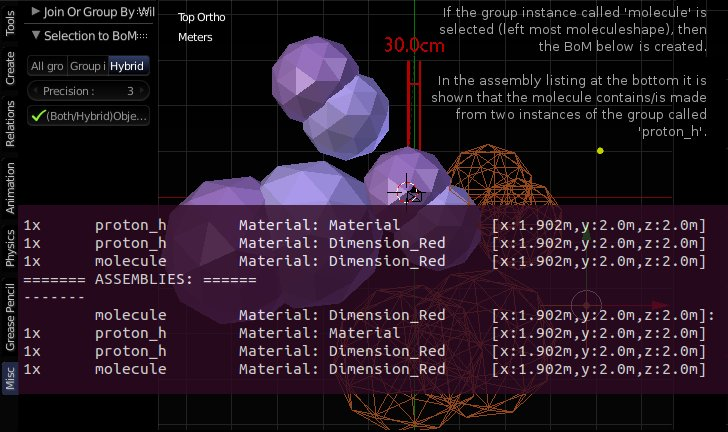
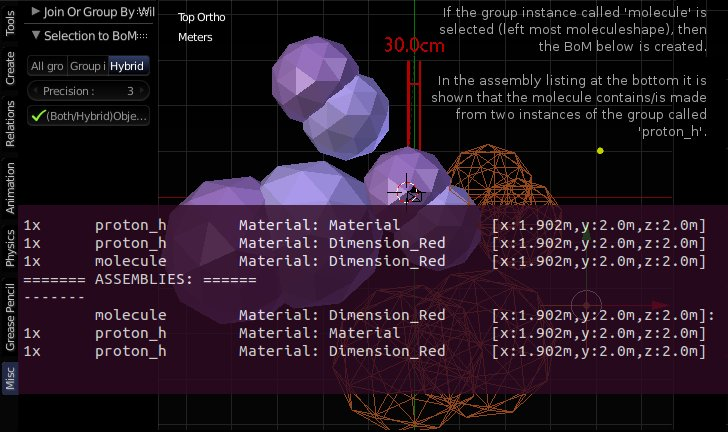
Align BoM formatting. Fix wrong assembly listings. Fix recursion.
Fix misalignments in generated BoM.
Fix assembly listing just outputting the global bom entry counts
instead of those per assembly.

Reduce global variables count.
Nicer debug output (printing recursion depth and which objects operator
operate on explicitely).

diff --git a/object_selection2bom.py b/object_selection2bom.py
@@ -113,6 +113,8 @@ def initaddon(context):
 #@return always returns True or False
 object_reference_count = {}
 def act(context):
+    global bom_entry_count_map
+    global assembly_bom_entry_count_map
     
     initaddon(context)
 
@@ -220,7 +222,7 @@ def act(context):
             print('creating bom entry not successful => aborting')
         #return False#selection_result
     else:
-        write2file(context, bom_entry_count_map)
+        write2file(context, bom_entry_count_map, assembly_bom_entry_count_map)
 
 
 
@@ -359,24 +361,20 @@ def is_longest_material_then_store_len(material_label='', material=None):
 
 
 #CREATE BOM ENTRY FROM OBJECT
-create_bom_entry_recursion_depth = 0
-def create_bom_entry_recursively(context, o_bjects, owning_group_instance_objects):
+def create_bom_entry_recursively(context, o_bjects, owning_group_instance_objects, recursion_depth=0):
     if debug:
-        print('Creating BoM entry recursively ...')
+        print(str(recursion_depth) + ' Creating BoM entry recursively ...')
         
-    global create_bom_entry_recursion_depth
-    create_bom_entry_recursion_depth = create_bom_entry_recursion_depth + 1
-    
-    if (create_bom_entry_recursion_depth > after_how_many_create_bom_entry_recursions_to_abort):
+    if (recursion_depth > after_how_many_create_bom_entry_recursions_to_abort):
         if debug:
             print('Failed creating bom entries in time. Recursion limit exceeded: '
-                    , create_bom_entry_recursion_depth)
+                    , recursion_depth)
         return {'CANCELLED'}
 
 
     
     if debug:
-        print('Encountered: ', o_bjects, ' type: ', type(o_bjects))
+        print(str(recursion_depth) + ' Encountered: ', o_bjects, ' type: ', type(o_bjects))
     
     
     
@@ -388,7 +386,7 @@ def create_bom_entry_recursively(context, o_bjects, owning_group_instance_object
         
         is_longest_object_label_then_store_len(o_bjects)
         if debug:
-            print('Encountered an object: ', o_bjects, ' blender-Type: ', o_bjects.type)
+            print(str(recursion_depth) + ' Encountered an object: ', o_bjects, ' blender-Type: ', o_bjects.type)
         
         
         #Is object type considered? (not considered are e.g. armatures.)
@@ -410,7 +408,7 @@ def create_bom_entry_recursively(context, o_bjects, owning_group_instance_object
                 # In all modes, these objects get an entry in the BoM.
                 if (not build_and_store_bom_entry(context, o_bjects, owning_group_instance_objects)):
                     if debug:
-                        print('Failed to write bom entry to file. ', o_bjects, create_bom_entry_recursion_depth)
+                        print('Failed to write bom entry to file. ', o_bjects, recursion_depth)
                     return {'CANCELLED'}
                     
                 return {'FINISHED'}
@@ -426,7 +424,7 @@ def create_bom_entry_recursively(context, o_bjects, owning_group_instance_object
                     #Is a group but has no objects in the group?
                     and (len(o_bjects.dupli_group.objects) > 0)): # If no objects are linked here the creation of a BoM entry is pointless.
                 if debug:
-                    print("It's a Group instance! Attached dupli group: ", o_bjects.dupli_group)
+                    print('It\'s a Group instance! Attached dupli group: ', o_bjects.dupli_group)
                     
                 #Resolving groups is not desired?
                 if (context.scene.selection2bom_in_mode == '0'):
@@ -447,9 +445,9 @@ def create_bom_entry_recursively(context, o_bjects, owning_group_instance_object
                 # Hybrid mode? i.e. list in bom and resolve objects too?
                 elif (context.scene.selection2bom_in_mode == '2'):
                     if debug:
-                        print('Hybrid Mode: Group instances/assemblies are both listed in the bom and resolved.',
-                        ' A tree is the desired result, i.e. This assembly exists x times and it is assembled',
-                        ' using the following parts.')
+                        print('Hybrid Mode: Group instances/assemblies are both listed in the bom and resolved.')#,
+                        #' A tree is the desired result, i.e. This assembly exists x times and it is assembled',
+                        #' using the following parts.')
                     #is_to_be_listed_in_bom = True
                     #is_group_instance_and_needs_to_be_resolved = True
                     if (not o_bjects.is_visible(context.scene)):
@@ -481,8 +479,7 @@ def create_bom_entry_recursively(context, o_bjects, owning_group_instance_object
                     print('Resolved a group. Count of objects in group: ', len(resolve_group_result))
                 owning_group_instance_objects.append(o_bjects) 
                 for obj in resolve_group_result:
-                    
-                    create_bom_entry_recursively(context, obj, owning_group_instance_objects)
+                    create_bom_entry_recursively(context, obj, owning_group_instance_objects, recursion_depth=(recursion_depth + 1))
                 
                 owning_group_instance_objects.remove(o_bjects)
 
@@ -501,7 +498,7 @@ def create_bom_entry_recursively(context, o_bjects, owning_group_instance_object
         #Object type is not considered then:
         else:
             if (debug):
-                print('Object type ', o_bjects.type, ' is not considered (e.g. armatures are not considered a mechanical part).')
+                print(str(recursion_depth) + ' Object type ', o_bjects.type, ' is not considered (e.g. armatures are not considered a mechanical part).')
             return {'CANCELLED'}
             
         
@@ -512,7 +509,7 @@ def create_bom_entry_recursively(context, o_bjects, owning_group_instance_object
     elif (o_bjects is list or type(o_bjects) is list):
         print('>> Object is list: ' + str(o_bjects) + ' | type:' + str(type(o_bjects)))
         for o in o_bjects:
-            create_bom_entry_recursively(context, o, owning_group_instance_objects)
+            create_bom_entry_recursively(context, o, owning_group_instance_objects, recursion_depth=(recursion_depth + 1))
         return {'FINISHED'}
 
 
@@ -585,16 +582,18 @@ def build_and_store_bom_entry(context, o, owning_group_instance_objects):#http:/
     # Have to add assembly entry?
     owning_group_instance_objects_length = len(owning_group_instance_objects)
     if (owning_group_instance_objects_length > 0):
-    #for i in range(owning_group_instance_objects_length - 1, 0):
+    #for i in range(owning_group_instance_objects_length - 1, -1):
         # Important Note: The last item of the list could be spliced out! It's not done for performance. It's tested if for equality and skipped instead - in build_bom_entry().
         parent_group_instance = None
         if (owning_group_instance_objects_length > 0):
             parent_group_instance = owning_group_instance_objects[owning_group_instance_objects_length - 1]
+        if debug:
+            print('Assembly: Building bom entry ...')
         assembly_bom_entry = build_bom_entry(context, parent_group_instance, owning_group_instance_objects) #TODO store owning_group_instance_objects and iterate bottom up.
         # Keep track of how many BoM entries of the same type belong to this unique assembly:
         if (not (assembly_bom_entry in assembly_bom_entry_count_map)):
             if debug:
-                print('From now on keeping track of assembly: ', assembly_bom_entry)
+                print('Assembly: From now on keeping track of assembly: ', assembly_bom_entry)
             assembly_bom_entry_count_map[assembly_bom_entry] = {}
             
         if (not (bom_entry in assembly_bom_entry_count_map[assembly_bom_entry])):
@@ -605,7 +604,8 @@ def build_and_store_bom_entry(context, o, owning_group_instance_objects):#http:/
         assembly_bom_entry_count_map[assembly_bom_entry][bom_entry] = assembly_bom_entry_count_map[assembly_bom_entry][bom_entry] + 1
         if debug:
             print('Assembly:', assembly_bom_entry, ' -> new part count: ', assembly_bom_entry_count_map[assembly_bom_entry][bom_entry], 'x ', bom_entry)
-        
+    
+    print('----*done*,constructed bom entries.')
     return bom_entry
     
     
@@ -622,6 +622,8 @@ def build_and_store_bom_entry_out_of_group(context, g):
     
 
 def build_bom_entry(context, o, owning_group_instance_objects):
+    if debug:
+        print('build_bom_entry: o:', o, ' owning_group_instance_objects:', owning_group_instance_objects)
     #build BoM entry: using http://www.blender.org/documentation/blender_python_api_2_69_release/bpy.types.Object.html
     entry = getBaseName(o.name)
     
@@ -716,7 +718,7 @@ def build_bom_entry(context, o, owning_group_instance_objects):
     # If provided inherit parent group instances' transforms:
     # If o owning_o equality and skip if equal (see performance hack, it's done to avoid removing element from the list which is live and still needed later).
         
-    if (not (o.dupli_group is None)):
+    if (not (o.dupli_group is None) and len(o.dupli_group.objects) > 0):
         if debug:
             print('Creating temporary selection. o: ', o, ' dupli_group: ', o.dupli_group)#To be undone or unexpected results will
             # occur as the loop uses a live copy of selection. <-- No longer valid!
@@ -736,22 +738,27 @@ def build_bom_entry(context, o, owning_group_instance_objects):
         
         objects_to_be_joined_length = len(objects_to_be_joined)
         if objects_to_be_joined_length > 0:
-            for objects_to_be_joined_index in range(0, objects_to_be_joined_length - 1):
+            for objects_to_be_joined_index in range(0, objects_to_be_joined_length):
                 objects_to_be_joined[objects_to_be_joined_index].select = True
         
             # Arbitrarily choose the last object as target:
             context.scene.objects.active = objects_to_be_joined[objects_to_be_joined_length - 1]
             if debug:
                 print(context.selected_objects, '\r\nactive_object: ', context.active_object)
-                
+                print('joining ...')
             # Attention: Poll may fail because a context of joining into an empty is not valid!
             if (not bpy.ops.object.join()):
                 print('Joining the temporary selection (all group instances within this group instance duplicated, made real and its dupli groups\' objects recursively treated the same too) failed. Check for unjoinable object types.')
                 #break
+            if (not context.scene.objects.active):
+                print('WARNING: Active object not set after join operation.')
+            else:
+                context.scene.objects.active.select = True
         else:
-            o.select = True
+            # TODO Use the dimension of the greatest object within its dupligroup (this includes CURVE objects). Only adopt if greater than the currenty evaluated object's dimensions.
+            o.select = True # If the above functionality isn't, then this may be simplified. This is obsolete as it's the default dimension anyway.
             context.scene.objects.active = o
-        print('inheriting transformation of active: ', context.scene.objects.active)    
+        print('Adopting total dimensions of the complete assembly (joined): ', context.scene.objects.active)    
         # Inherit the dimensions. 
         x = context.active_object.dimensions[0]
         y = context.active_object.dimensions[1]
@@ -760,10 +767,15 @@ def build_bom_entry(context, o, owning_group_instance_objects):
         ##Undo now no longer required (copy instead of selected_object reference for recursion used now)
         #while --undo_count > 0:
         #    bpy.ops.ed.undo()
+        if (context.active_object == o):
+            o.select = False
         if len(context.selected_objects) > 0:
-            bpy.ops.object.delete(use_global=False)#The duplicate should reside in this context's scene only!
+            if debug:
+                print(context.selected_objects, '\r\nactive_object: ', context.active_object)
+                print('deleting ...')
+            bpy.ops.object.delete()
         else:
-            print('WARNING: No objects selected but it should.')
+            print('WARNING: No objects selected but it should. Might have found nothing to join ...')
         # Ensure nothing is selected:
         if (len(context.selected_objects) > 0):
             if (not bpy.ops.object.select_all(action="DESELECT")):
@@ -771,11 +783,15 @@ def build_bom_entry(context, o, owning_group_instance_objects):
         # Select all objects that still have to be deleted (all but the joined ones):    
         objects_to_be_deleted_length = len(objects_to_be_deleted)
         if (objects_to_be_deleted_length > 0):
-            for objects_to_be_deleted_index in range(0, objects_to_be_deleted_length - 1):
+            for objects_to_be_deleted_index in range(0, objects_to_be_deleted_length):
                 if objects_to_be_deleted[objects_to_be_deleted_index] in objects_to_be_joined:
+                    print('Skipping object to be deleted because it may (rather should) have been joined: ', objects_to_be_deleted[objects_to_be_deleted_index])
                     continue
                 objects_to_be_deleted[objects_to_be_deleted_index].select = True
-            bpy.ops.object.delete(use_global=False) # The duplicate should reside in this context's scene only! Thus not global.
+            if debug:
+                print(context.selected_objects, '\r\nactive_object: ', context.active_object)
+                print('deleting ...')
+            bpy.ops.object.delete()
         
         
     # Apply inherited delta transforms:    
@@ -784,6 +800,7 @@ def build_bom_entry(context, o, owning_group_instance_objects):
     while owning_group_instance_objects_index > -1:
         #print('index: ', owning_group_instance_objects_index, ' of length ', owning_group_instance_objects_length)
         owning_group_instance_object = owning_group_instance_objects[owning_group_instance_objects_index]
+        # The object o itself might reside at the last position in the list, for performance reasons it was not removed. So skip it:
         if (owning_group_instance_object != o):
             x *= owning_group_instance_object.scale[0]
             y *= owning_group_instance_object.scale[1]
@@ -835,7 +852,12 @@ def build_bom_entry(context, o, owning_group_instance_objects):
 
 
         
-def resolve_all_joinable_objects_recursively(context, o, objects_to_be_joined, objects_to_be_deleted, is_already_duplicate=False):
+def resolve_all_joinable_objects_recursively(context, o, objects_to_be_joined, objects_to_be_deleted, is_already_duplicate=False, recursion_depth=0):
+    print(str(recursion_depth) + 'resolve_all_joinable_objects_recursively: o: ',o, ' to_be_joined: ', objects_to_be_joined, ' objects_to_be_deleted: ', objects_to_be_deleted)
+    if (recursion_depth > after_how_many_create_bom_entry_recursions_to_abort):
+        print(str(recursion_depth) + ' Reached recursion depth limit: ', after_how_many_create_bom_entry_recursions_to_abort, ' current recursion depth: ', recursion_depth)
+        return {'FINISHED'}
+    
     # Ensure nothing is selected:
     if (not bpy.ops.object.select_all(action="DESELECT")):
         print('There seems to be already no selection - that may be interesting, but as we work with a copy it should not matter. Of importance is that now nothing is selected anymore.')
@@ -847,7 +869,7 @@ def resolve_all_joinable_objects_recursively(context, o, objects_to_be_joined, o
     #(GROUP INSTANCE) WILL SIMPLY BE DELETED AFTERWARDS.
     if (not is_already_duplicate):
         if (not bpy.ops.object.duplicate()):#non-linked duplication of selected objects
-            print('duplicate failed')
+            print('Object to be resolved not yet is duplicate, but duplicate() operator failed')
     
     if (len(context.selected_objects) > 1):
         print('Only one object (the group instance or one of the objects within its group) should have been selected.\r\nSelection: ', context.selected_objects, '. Thus dimension will only reflect those of the dupli group objects of the first selected group instance object.')
@@ -861,34 +883,57 @@ def resolve_all_joinable_objects_recursively(context, o, objects_to_be_joined, o
     else:
         if debug:
             print('active object after duplication of group instance: ', context.active_object, ' or :', context.scene.objects.active)
+   
+    # If the objects are duplicated, then they still are in the same groups as the original object. This means the dupli_group suddenly has more members, which leads to endless recursion. Thus remove the duplicates from all groups:
+    if debug:
+        print('Removing selected objects from all groups. ', context.selected_objects)
+    #for selected_duplicate in context.selected_objects:
+    #    for d_group in selected_duplicate.users_group:
+    #        bpy.ops.group.objects_remove(group=d_group)
+    bpy.ops.group.objects_remove_all()
     
+    # As this is a duplicate, it needs to be removed later on:
+    # Required because of joining only allows mesh or curve only - no mix!
+    if (context.scene.objects.active.type == 'MESH'):
+        objects_to_be_joined.append(context.scene.objects.active)
+    else:  
+        objects_to_be_deleted.append(context.scene.objects.active) # It's safer here as joining into an active object keeps up the active object of course. Thus the object should be deleted but it is not as it has been marked for join. Thus better not even mark for deletion.
+
+    # Further decomposition possible? 
     if (not (context.scene.objects.active.dupli_group is None)):
+        # Store a reference because it's not certain that an operator not changes the active object.
+        group_instance_object = context.scene.objects.active
+        if debug:
+            print('Making real ...') 
         #the active object (group instance) should be the only selected one:
         bpy.ops.object.duplicates_make_real(use_base_parent=True)#false because we don't set up
                 #the empty group instance as parent of the now copied and no longer referenced group objects!
                 #The dupli group attached to this object
                 #is copied here as real value object copies (not references). => no new duplication required.
         #Note:
-        # The real objects that now reside where the group instance was before
-        # should already be selected after duplicates_make_real.
+        # The real objects (including the group instance's empty!) that now reside where the group instance was before
+        # should already be selected after duplicates_make_real. (Note while make_real resolves to the very bottom,
+        # this (our) algorithm also works if this feature should change in the future as it's a recursive approach.)
         if (len(context.selected_objects) < 1): 
             print('Attention: No selection after duplicates_make_real operator! active object: ', context.scene.objects.active)
+        
+        bpy.ops.group.objects_remove_all() # optional (because make_real removes the objects from all groups already)
             
         #group_objects = context.scene.objects.active.dupli_group.objects#.children
         group_objects = context.selected_objects
         #selected_objects_count = 0
         for group_object in group_objects:
-            if (group_object.type == 'EMPTY' or group_object.type == 'Armature'):
-                #and is_object_type_considered(group_object_type)):
-                print ('Warning: Group object\'s type is EMPTY or ARMATURE. Skipping it as these have no dimensions anyway.')
+            # If EMPTY is a considered type, then the empty corresponding to the current object (that also reside after duplicates_make_real) must be skipped:
+            if (group_object == group_instance_object):
+                if debug:
+                    print('>> Skipping group object because it\'s the group instance object itself.')
                 continue
-            resolve_all_joinable_objects_recursively(context, group_object, objects_to_be_joined, objects_to_be_deleted, is_already_duplicate=True)
+            if (not is_object_type_considered(group_object.type)):
+                print ('Warning: Group object\'s type is not considered.')
+                objects_to_be_deleted.append(group_object)
+                continue
+            resolve_all_joinable_objects_recursively(context, group_object, objects_to_be_joined, objects_to_be_deleted, is_already_duplicate=True, recursion_depth=(recursion_depth + 1))
             #++selected_objects_count
-    else:
-        objects_to_be_deleted.append(context.scene.objects.active)
-        # Required because of joining only allows mesh or curve only - no mix!
-        if (context.scene.objects.active.type == 'MESH'):
-            objects_to_be_joined.append(context.scene.objects.active)
         
     return {'FINISHED'}
 
@@ -900,7 +945,7 @@ def resolve_all_joinable_objects_recursively(context, o, objects_to_be_joined, o
 #
 def getWhiteSpace(count):
     whitespace = ''
-    for i in range(0, count - 1):
+    for i in range(0, count): # range() is exclusive at the upper bound.
         whitespace = whitespace + ' '
     return whitespace
 
@@ -911,7 +956,7 @@ def getWhiteSpace(count):
 #
 # All found bom entries are written to a file.
 #
-def write2file(context, bom_entry_count_map):#<-- argument is a dictionary (key value pairs)!
+def write2file(context, bom_entry_count_map, assembly_bom_entry_count_map):#<-- argument is a dictionary (key value pairs)!
     if debug:
         print('Writing bill of materials to file ...')
         
@@ -934,11 +979,11 @@ def write2file(context, bom_entry_count_map):#<-- argument is a dictionary (key 
             
         # Assemblies:
         if (context.scene.selection2bom_in_mode == '2'):
-            bom = bom + '\r\n======= ASSEMBLIES: ======'
+            bom = bom + '\r\n\r\n======= ASSEMBLIES: ======'
             for assembly, entry_count_map in assembly_bom_entry_count_map.items(): 
                 bom = bom + '\r\n-------'
                 bom = bom + '\r\n' + assembly + ':'
-                for entry, entry_count in bom_entry_count_map.items(): 
+                for entry, entry_count in entry_count_map.items(): 
                     bom = bom + '\r\n' + str(entry_count) + 'x ' + entry
                     #bom = bom '\r\n'
                   
@@ -1097,24 +1142,24 @@ def isThereActiveObjectThenGet(context):
 def getBaseName(s):
     obj_basename_parts = s.split('.')
     obj_basename_parts_L = len(obj_basename_parts)
-    if debug:
-        print('getBaseName: Last part: ', obj_basename_parts[obj_basename_parts_L - 1])
+    #if debug:
+    #    print('getBaseName: Last part: ', obj_basename_parts[obj_basename_parts_L - 1])
     if (obj_basename_parts_L > 1
     and re.match('[0-9]{3}$', obj_basename_parts[obj_basename_parts_L - 1])):
-        if debug:
-            print('getBaseName: determining base name')
-        #attention: last item is left intentionally
+    #    if debug:
+    #        print('getBaseName: determining base name')
+        # Attention: Last item is left out intentionally (don't remove the '- 1').
         cleanname = ''
         for i in range(0, obj_basename_parts_L - 1):
             cleanname += obj_basename_parts[i]
         #done this strange way to avoid unnecessary GUI updates
         #as the sel.name fields in the UI may be unnecessarily updated on change ...
-        if debug:
-            print('getBaseName: determining *done*, determined basename: ', cleanname)
+        #if debug:
+        #    print('getBaseName: determining *done*, determined basename: ', cleanname)
         return cleanname
     else:
-        if debug:
-            print('getBaseName: already tidied up *done*, basename: ', s)
+        #if debug:
+        #    print('getBaseName: already tidied up *done*, basename: ', s)
         return s
     
 
